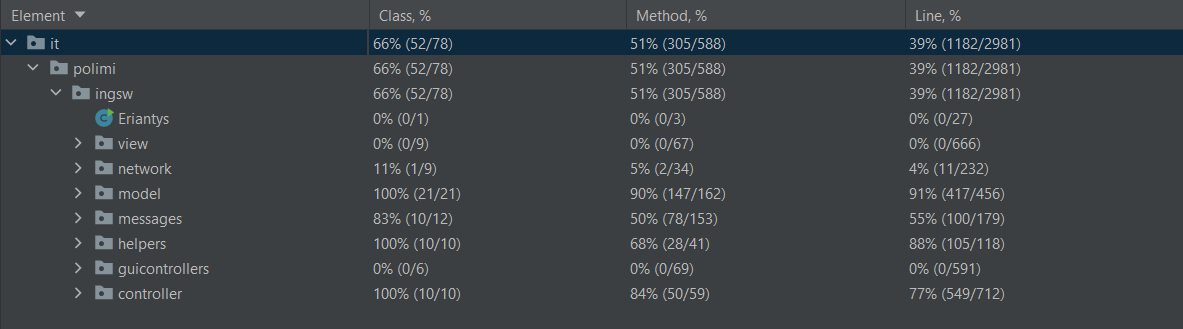
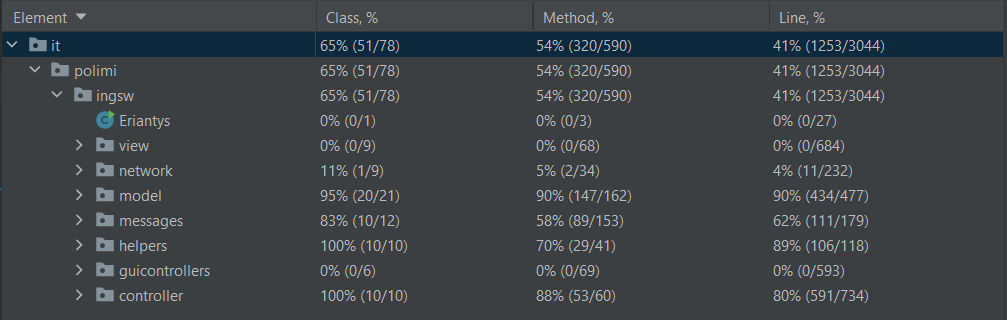
Coverage to 80%

diff --git a/README.md b/README.md
@@ -23,10 +23,10 @@ Project for Software Engineering Course - Polimi
 
 ### TEST COVERAGE
 
-| Functionality        |  Class%  |  Method%  |   Line%   |
-|:---------------------|:--------:|:---------:|:---------:|
-| Controller           |100%      |84%        |77%        |
-| Model                |100%      |90%        |91%        |
+| Functionality        |  Class%  |  Method%  | Line% |
+|:---------------------|:--------:|:---------:|:-----:|
+| Controller           |100%      |84%        |  80%  |
+| Model                |100%      |90%        |  91%  |
 
 ![Test Coverage - Image](https://github.com/nixetheus/ingsw2022-AM14/blob/main/deliverables/coverage.png)
 
